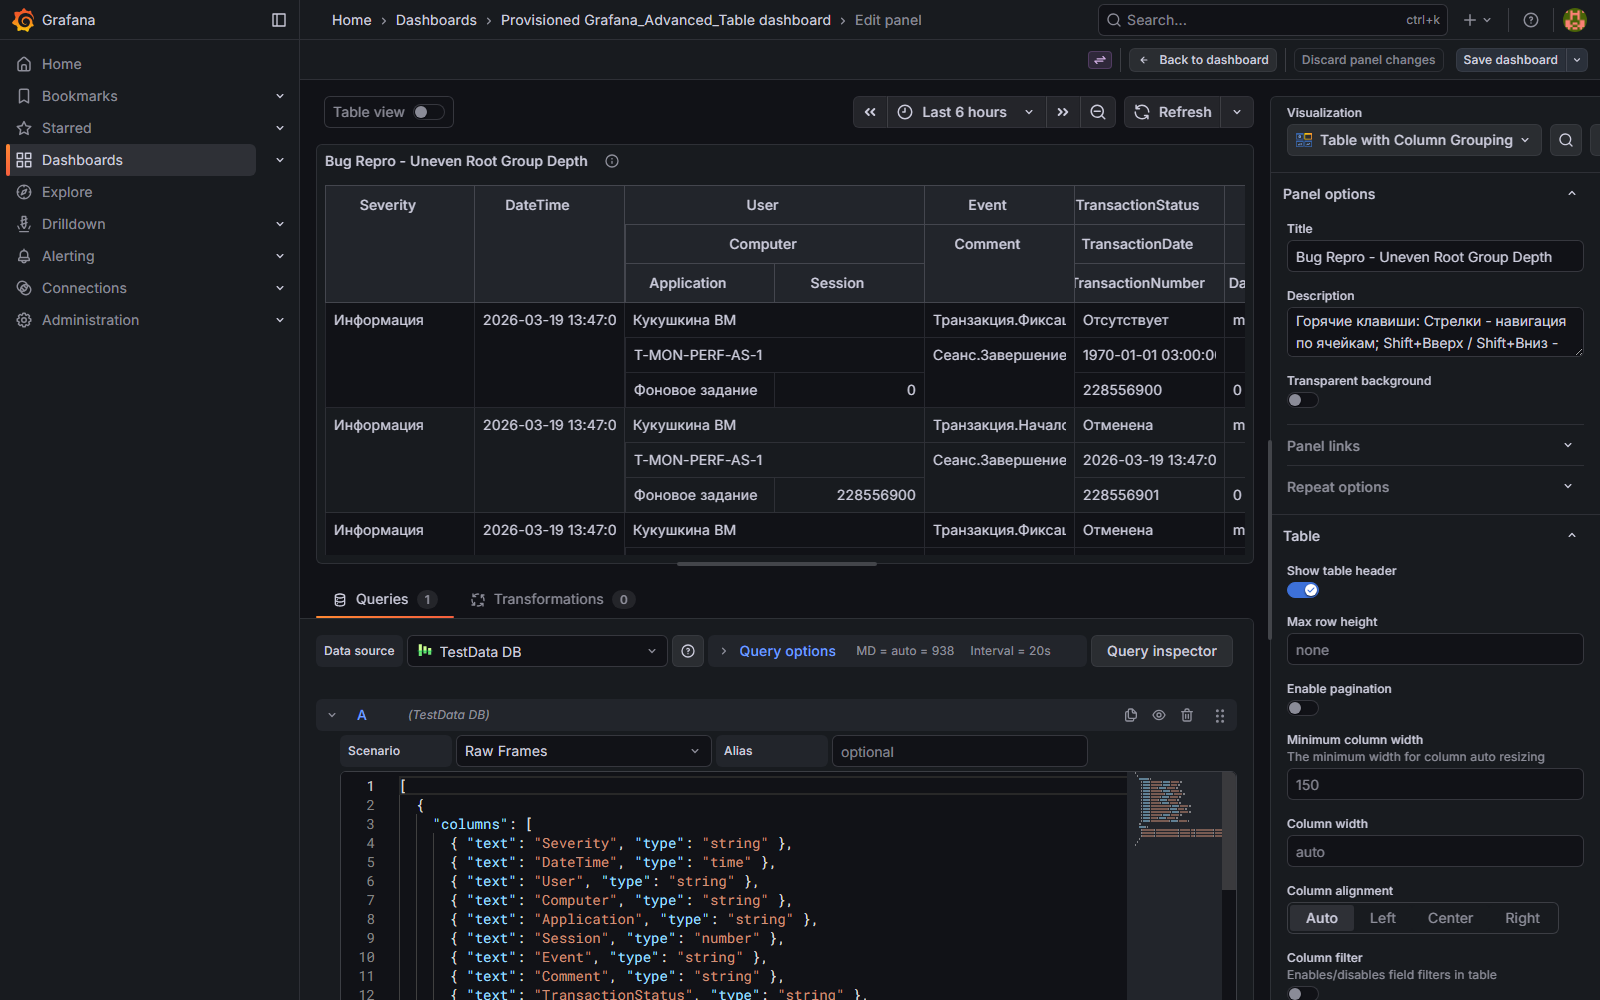
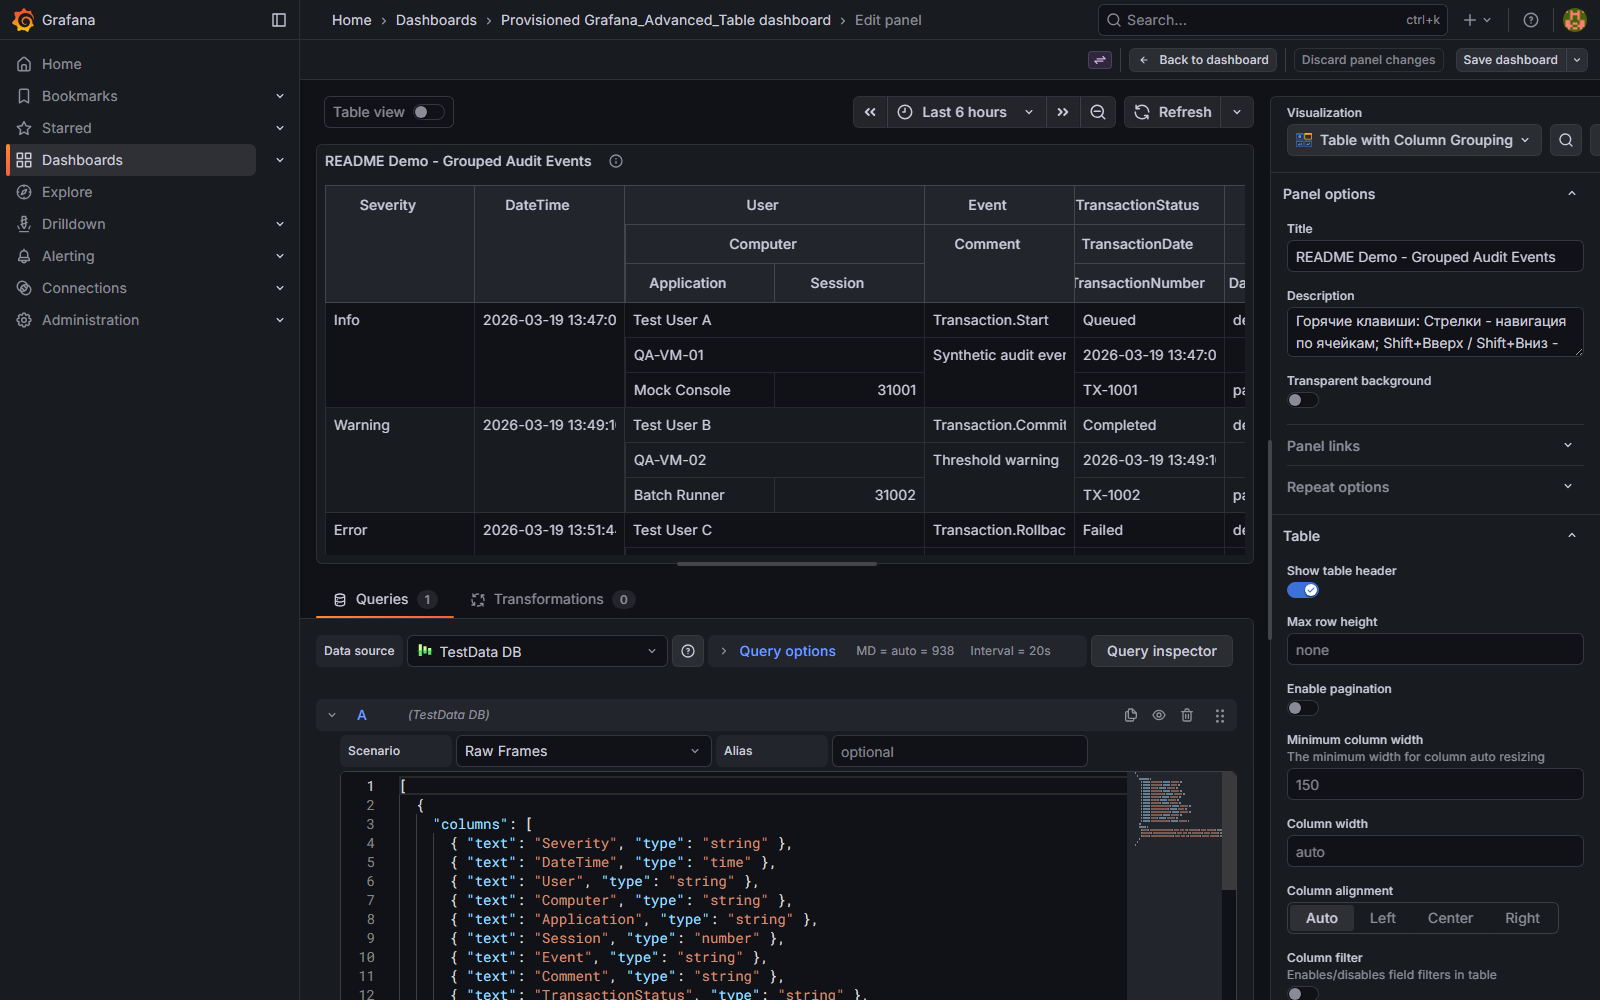
Update README screenshots with test data

diff --git a/tests/panel.spec.ts b/tests/panel.spec.ts
@@ -22,8 +22,8 @@ test.describe.serial('Table with Column Grouping', () => {
     await expect(panelEditPage.panel.locator.getByRole('columnheader', { name: 'DateTime' })).toBeVisible();
     await expect(panelEditPage.panel.locator.getByRole('columnheader', { name: 'User' })).toBeVisible();
     await expect(panelEditPage.panel.locator.getByRole('columnheader', { name: 'TransactionStatus' })).toBeVisible();
-    await expect(panelEditPage.panel.locator.getByRole('cell', { name: 'Информация' }).first()).toBeVisible();
-    await expect(panelEditPage.panel.locator.getByRole('cell', { name: 'Кукушкина ВМ' }).first()).toBeVisible();
+    await expect(panelEditPage.panel.locator.getByRole('cell', { name: 'Info' }).first()).toBeVisible();
+    await expect(panelEditPage.panel.locator.getByRole('cell', { name: 'Test User A' }).first()).toBeVisible();
   });
 
   test('should hide header row when "Show table header" is disabled', async ({

diff --git a/tests/screenshots.spec.ts b/tests/screenshots.spec.ts
@@ -18,6 +18,7 @@ test.describe.serial('Catalog screenshots', () => {
     await expect(groupedPanel.panel.locator.getByRole('columnheader', { name: 'Severity' })).toBeVisible();
     await expect(groupedPanel.panel.locator.getByRole('columnheader', { name: 'User' })).toBeVisible();
     await expect(groupedPanel.panel.locator.getByRole('columnheader', { name: 'TransactionStatus' })).toBeVisible();
+    await expect(groupedPanel.panel.locator.getByRole('cell', { name: 'Test User A' }).first()).toBeVisible();
     await groupedPanel.panel.locator.screenshot({
       path: path.join(outputDir, 'table-main.png'),
     });

diff --git a/README.md b/README.md
@@ -54,6 +54,20 @@ systemctl restart grafana-server
 5. Build header hierarchy in the grouping editor.
 6. Fine-tune field display options and widths.
 
+## Screenshots
+
+### Grouped table view
+
+![Grouped table view](src/img/screenshots/table-main.png)
+
+### Panel editor
+
+![Panel editor with grouping options](src/img/screenshots/table-edit-options.png)
+
+### No-data state
+
+![No-data state](src/img/screenshots/table-no-data.png)
+
 ## Feature highlights
 
 - Nested group headers with flexible depth
